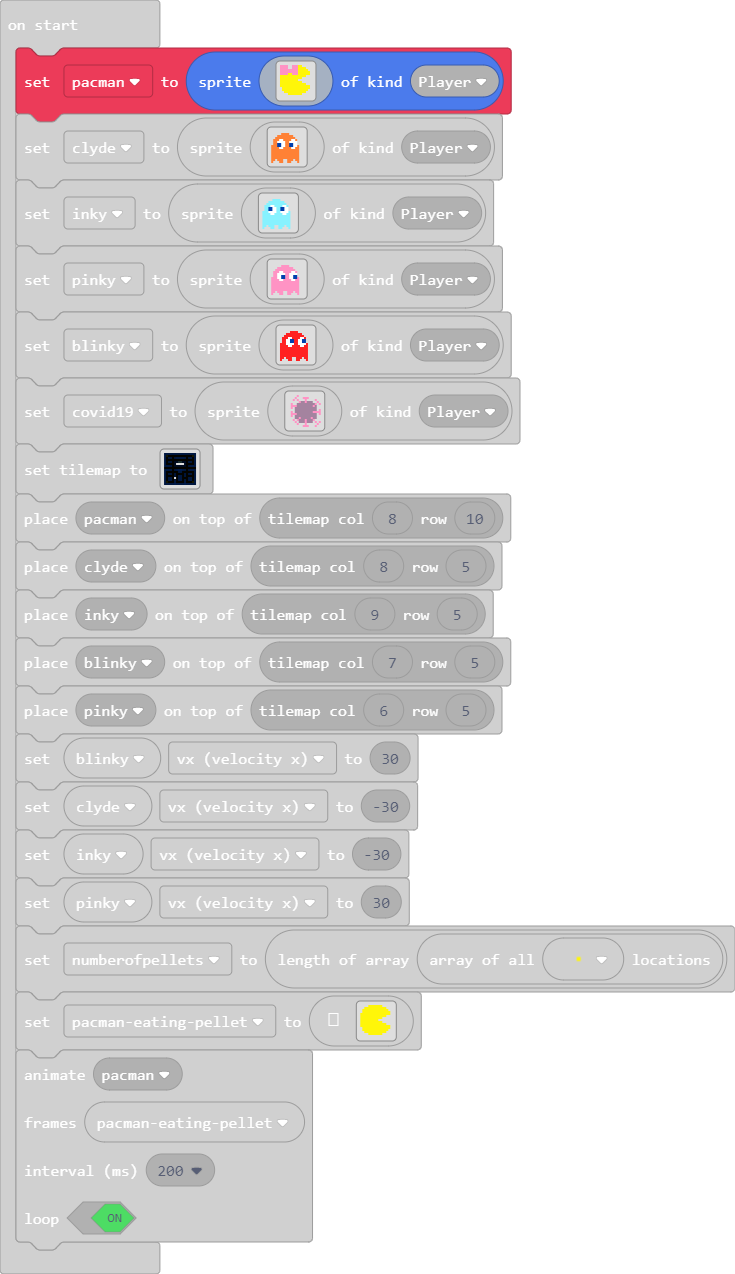
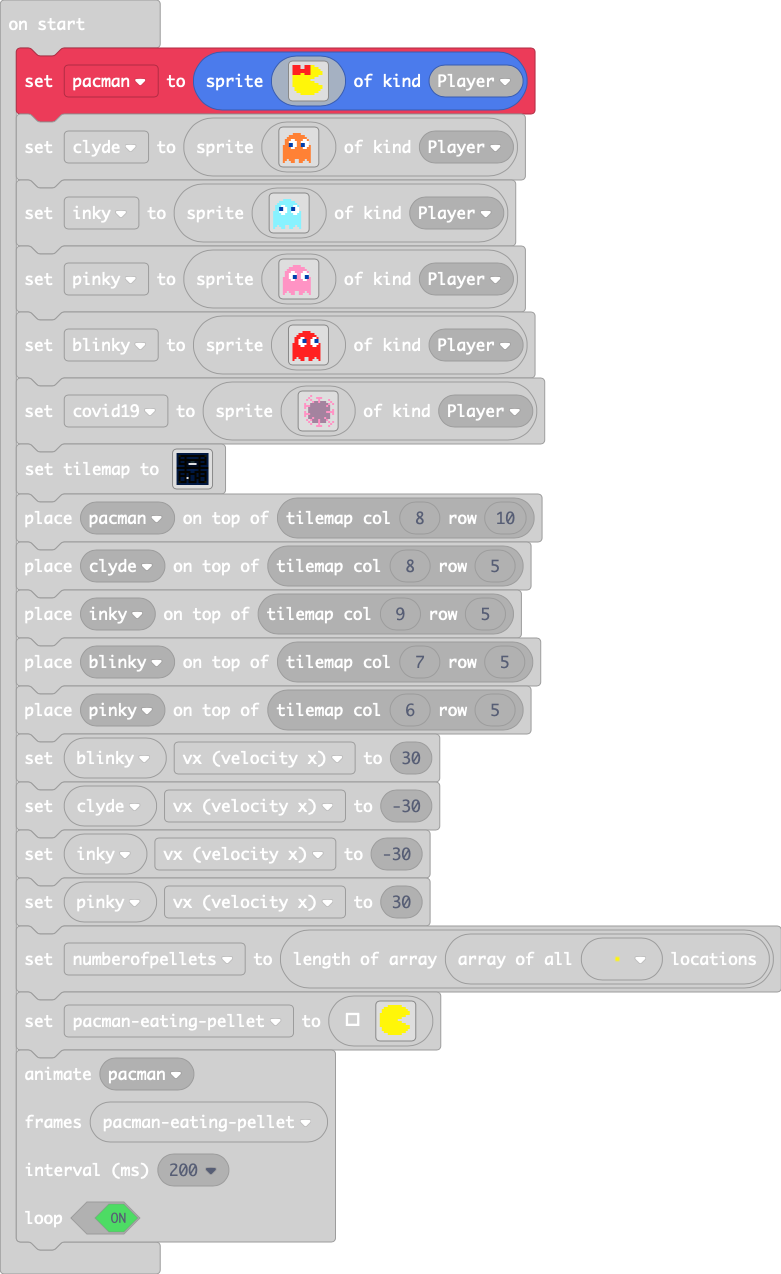
I prefer a red bow.

diff --git a/main.ts b/main.ts
@@ -446,11 +446,11 @@ scene.onOverlapTile(SpriteKind.Player, myTiles.tile21, function (sprite, locatio
 })
 let numberofpellets = 0
 let pacman = sprites.create(img`
-3 3 3 3 . . 3 3 3 5 5 . . . . . 
-3 3 3 3 . . 3 3 3 5 5 5 5 . . . 
-3 3 3 3 3 3 3 3 3 5 5 5 5 5 . . 
-3 3 3 3 3 3 3 3 3 5 5 5 5 5 5 . 
-3 3 3 3 5 5 3 3 3 5 5 5 5 5 5 . 
+2 2 2 2 . . 2 2 2 5 5 . . . . . 
+2 2 2 2 . . 2 2 2 5 5 5 5 . . . 
+2 2 2 2 2 2 2 2 2 5 5 5 5 5 . . 
+2 2 2 2 2 2 2 2 2 5 5 5 5 5 5 . 
+2 2 2 2 5 5 2 2 2 5 5 5 5 5 5 . 
 5 5 5 5 5 5 5 5 5 5 5 5 5 . . . 
 5 5 5 5 5 5 5 5 5 5 5 . . . . . 
 5 5 5 5 5 5 5 5 5 . . . . . . . 
